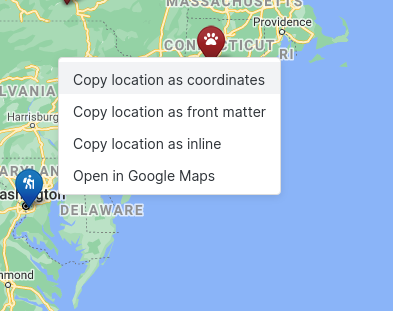
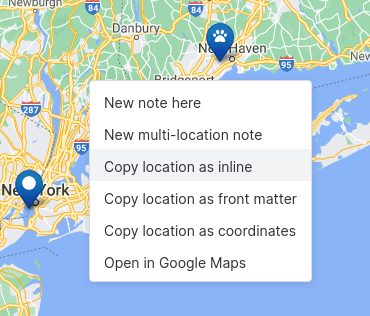
Various improvements

diff --git a/src/mapView.ts b/src/mapView.ts
@@ -53,9 +53,15 @@ export class MapView extends ItemView {
 		this.setState = async (state: MapState, result) => {
 			if (state) {
 				console.log(`Received setState:`, state);
-				// We give the given state priority by setting a high version
-				state.version = 100;
-				await this.updateMapToState(state);
+				if (!state.version) {
+					// We give the given state priority by setting a high version
+					state.version = this.plugin.highestVersionSeen + 1;
+				}
+				if (!state.mapCenter || !state.mapZoom) {
+					state.mapCenter = this.defaultState.mapCenter;
+					state.mapZoom = this.defaultState.mapZoom;
+				}
+				await this.updateMapToState(state, false);
 			}
 		}
 		this.getState = (): MapState => {
@@ -70,7 +76,7 @@ export class MapView extends ItemView {
 	getViewType() { return 'map'; }
 	getDisplayText() { return 'Interactive Map View'; }
 
-	onOpen() {
+	async onOpen() {
 		var that = this;
 		this.isOpen = true;
 		this.state = this.defaultState;
@@ -112,7 +118,7 @@ export class MapView extends ItemView {
 					tags: this.settings.defaultTags || consts.DEFAULT_TAGS,
 					version: this.state.version + 1
 				};
-				await this.updateMapToState(newState);
+				await this.updateMapToState(newState, false);
 			});
 		let fitButton = new ButtonComponent(controlsDiv);
 		fitButton
@@ -138,7 +144,7 @@ export class MapView extends ItemView {
 		});
 		this.contentEl.append(this.display.mapDiv);
 
-		this.createMap();
+		await this.createMap();
 
 		return super.onOpen();
 	}
@@ -157,8 +163,8 @@ export class MapView extends ItemView {
 		// LeafletJS compatability: disable tree-shaking for the full-screen module
 		var dummy = leafletFullscreen;
 		this.display.map = new leaflet.Map(this.display.mapDiv, {
-			center: new leaflet.LatLng(40.731253, -73.996139),
-			zoom: 13,
+			center: this.defaultState.mapCenter,
+			zoom: this.defaultState.mapZoom,
 			zoomControl: false,
 			worldCopyJump: true,
 			maxBoundsViscosity: 1.0});
@@ -239,12 +245,6 @@ export class MapView extends ItemView {
 			});
 			mapPopup.showAtPosition(event.originalEvent);
 		});
-		this.display.map.whenReady(async () => {
-			await that.updateMapToState(this.defaultState, !this.settings.defaultZoom);
-			if (this.onAfterOpen != null)
-				this.onAfterOpen(this.display.map, this.display.markers);
-		})
-
 	}
 
 	// Updates the map to the given state and then sets the state accordingly, but only if the given state version
@@ -257,7 +257,10 @@ export class MapView extends ItemView {
 			// of the method was called), cancel the update
 			return;
 		}
+		// --- BEYOND THIS POINT NOTHING SHOULD BE ASYNC ---
+		// Saying it again: do not use 'await' below this line!
 		this.state = state;
+		this.plugin.highestVersionSeen = Math.max(this.plugin.highestVersionSeen, this.state.version);
 		this.updateMapMarkers(newMarkers);
 		this.state.tags = this.state.tags || [];
 		this.display.tagsBox.setValue(this.state.tags.filter(tag => tag.length > 0).join(','));
@@ -299,28 +302,7 @@ export class MapView extends ItemView {
 				this.display.markers.delete(marker.id);
 			} else {
 				// New marker - create it
-				marker.mapMarker = leaflet.marker(marker.location, { icon: marker.icon || new leaflet.Icon.Default() })
-					.addTo(this.display.map)
-					.bindTooltip(marker.file.name);
-				marker.mapMarker.on('click', (event: leaflet.LeafletMouseEvent) => {
-					this.goToMarker(marker, event.originalEvent.ctrlKey, true);
-				});
-				marker.mapMarker.getElement().addEventListener('contextmenu', (ev: MouseEvent) => {
-					let mapPopup = new Menu(this.app);
-					mapPopup.setNoIcon();
-					mapPopup.addItem((item: MenuItem) => {
-						item.setTitle('Open note');
-						item.onClick(async ev => { this.goToMarker(marker, ev.ctrlKey, true); });
-					});
-					mapPopup.addItem((item: MenuItem) => {
-						item.setTitle('Open in Google Maps');
-						item.onClick(ev => {
-							open(`https://maps.google.com/?q=${marker.location.lat},${marker.location.lng}`);
-						});
-					});
-					mapPopup.showAtPosition(ev);
-					ev.stopPropagation();
-				})
+				marker.mapMarker = this.newLeafletMarker(marker);
 				newMarkersMap.set(marker.id, marker);
 			}
 		}
@@ -328,6 +310,40 @@ export class MapView extends ItemView {
 			value.mapMarker.removeFrom(this.display.map);
 		}
 		this.display.markers = newMarkersMap;
+	}
+
+	private newLeafletMarker(marker: FileMarker) : leaflet.Marker {
+		let newMarker = leaflet.marker(marker.location, { icon: marker.icon || new leaflet.Icon.Default() })
+			.addTo(this.display.map);
+		newMarker.on('click', (event: leaflet.LeafletMouseEvent) => {
+			this.goToMarker(marker, event.originalEvent.ctrlKey, true);
+		});
+		newMarker.on('mouseover', (event: leaflet.LeafletMouseEvent) => {
+			let content = `<p class="map-view-marker-name">${marker.file.name}</p>`;
+			if (marker.snippet)
+				content += `<p class="map-view-marker-snippet">${marker.snippet}</p>`;
+			newMarker.bindPopup(content, {closeButton: false}).openPopup();
+		});
+		newMarker.on('mouseout', (event: leaflet.LeafletMouseEvent) => {
+			newMarker.closePopup();
+		});
+		newMarker.getElement().addEventListener('contextmenu', (ev: MouseEvent) => {
+			let mapPopup = new Menu(this.app);
+			mapPopup.setNoIcon();
+			mapPopup.addItem((item: MenuItem) => {
+				item.setTitle('Open note');
+				item.onClick(async ev => { this.goToMarker(marker, ev.ctrlKey, true); });
+			});
+			mapPopup.addItem((item: MenuItem) => {
+				item.setTitle('Open in Google Maps');
+				item.onClick(ev => {
+					open(`https://maps.google.com/?q=${marker.location.lat},${marker.location.lng}`);
+				});
+			});
+			mapPopup.showAtPosition(ev);
+			ev.stopPropagation();
+		})
+		return newMarker;
 	}
 
 	async autoFitMapToMarkers() {

diff --git a/src/markers.ts b/src/markers.ts
@@ -1,4 +1,5 @@
 import { App, TFile } from 'obsidian';
+import wildcard from 'wildcard';
 import * as leaflet from 'leaflet';
 import 'leaflet-extra-markers';
 import 'leaflet-extra-markers/dist/css/leaflet.extra-markers.min.css';
@@ -18,6 +19,7 @@ export class FileMarker {
 	icon?: leaflet.Icon<leaflet.BaseIconOptions>;
 	mapMarker?: leaflet.Marker;
 	id: MarkerId;
+	snippet?: string;
 
 	constructor(file: TFile, location: leaflet.LatLng) {
 		this.file = file;
@@ -75,6 +77,11 @@ export async function buildMarkers(files: TFile[], settings: PluginSettings, app
 	return markers;
 }
 
+function checkTagPatternMatch(tagPattern: string, fileTags: string[]) {
+	let match = wildcard(tagPattern, fileTags);
+	return match && match.length > 0;
+}
+
 function getIconForMarker(marker: FileMarker, settings: PluginSettings, app: App) : leaflet.Icon {
 	let result = settings.markerIcons.default;
 	const fileCache = app.metadataCache.getFileCache(marker.file);
@@ -82,7 +89,7 @@ function getIconForMarker(marker: FileMarker, settings: PluginSettings, app: App
 		const fileTags = fileCache.tags.map(tagCache => tagCache.tag);
 		// We iterate over the rules and apply them one by one, so later rules override earlier ones
 		for (const tag in settings.markerIcons) {
-			if (fileTags.indexOf(tag) > -1) {
+			if (checkTagPatternMatch(tag, fileTags)) {
 				result = Object.assign({}, result, settings.markerIcons[tag]);
 			}
 		}
@@ -129,6 +136,7 @@ async function getMarkersFromFileContent(file: TFile, settings: PluginSettings, 
 			const marker = new FileMarker(file, location);
 			marker.fileLocation = match.index;
 			marker.icon = getIconForMarker(marker, settings, app);
+			marker.snippet = await makeTextSnippet(file, content, marker.fileLocation, settings);
 			markers.push(marker);
 		}
 		catch (e) {
@@ -136,6 +144,45 @@ async function getMarkersFromFileContent(file: TFile, settings: PluginSettings, 
 		}
 	}
 	return markers;
+}
+
+async function makeTextSnippet(file: TFile, fileContent: string, fileLocation: number, settings: PluginSettings) {
+	let snippet = '';
+	if (settings.snippetLines && settings.snippetLines > 0) {
+		// We subtract 1 because the central (location) line will always be displayed
+		let linesAbove = Math.round((settings.snippetLines - 1) / 2);
+		let linesBelow = settings.snippetLines - 1 - linesAbove;
+		// Start from the beginning of the line on which the location was found, then go back
+		let snippetStart = fileContent.lastIndexOf('\n', fileLocation);
+		while (linesAbove > 0 && snippetStart > -1) {
+			const prevLine = fileContent.lastIndexOf('\n', snippetStart - 1);
+			const line = fileContent.substring(snippetStart, prevLine);
+			// If the new line above contains another location, don't include it and stop
+			if (!matchInlineLocation(line).next().done)
+				break;
+			snippetStart = prevLine;
+			linesAbove -= 1;
+		}
+		// Either if we reached the beginning of the file (-1) or if we stopped due to a newline, we want a step forward
+		snippetStart += 1;
+		// Always include the line with the location
+		let snippetEnd = fileContent.indexOf('\n', fileLocation);
+		// Now continue forward
+		while (linesBelow > 0 && snippetEnd > -1) {
+			const nextLine = fileContent.indexOf('\n', snippetEnd + 1);
+			const line = fileContent.substring(snippetEnd, nextLine > -1 ? nextLine : fileContent.length);
+			// If the new line below contains another location, don't include it and stop
+			if (!matchInlineLocation(line).next().done)
+				break;
+			snippetEnd = nextLine;
+			linesBelow -= 1;
+		}
+		if (snippetEnd === -1)
+			snippetEnd = fileContent.length;
+		snippet = fileContent.substring(snippetStart, snippetEnd);
+		snippet = snippet.replace(/\`location:.*\`/g, '<span class="map-view-location">`location:...`</span>');
+	}
+	return snippet;
 }
 
 export function getFrontMatterLocation(file: TFile, app: App) : leaflet.LatLng {

diff --git a/src/main.ts b/src/main.ts
@@ -1,4 +1,4 @@
-import { addIcon, App, Editor, FileView, MarkdownView, MenuItem, Menu, TFile, Plugin, WorkspaceLeaf, PluginSettingTab, Setting, TAbstractFile } from 'obsidian';
+import { addIcon, App, Editor, FileView, MarkdownView, MenuItem, Menu, TFile, Plugin, WorkspaceLeaf, PluginSettingTab, Setting, TAbstractFile, SuggestModal } from 'obsidian';
 import * as consts from 'src/consts';
 import * as leaflet from 'leaflet';
 
@@ -8,6 +8,7 @@ import { getFrontMatterLocation, matchInlineLocation, verifyLocation } from 'src
 
 export default class MapViewPlugin extends Plugin {
 	settings: PluginSettings;
+	public highestVersionSeen: number = 0;
 
 	async onload() {
 		addIcon('globe', consts.RIBBON_ICON);
@@ -78,6 +79,7 @@ export default class MapViewPlugin extends Plugin {
 		await this.app.workspace.getLeaf().setViewState({
 			type: consts.MAP_VIEW_NAME,
 			state: {
+				version: this.highestVersionSeen + 1,	// Make sure this overrides any existing state
 				mapCenter: location,
 				mapZoom: this.settings.zoomOnGoFromNote
 			} as any});
@@ -132,7 +134,7 @@ class SettingsTab extends PluginSettingTab {
 
 		new Setting(containerEl)
 			.setName('Map follows search results')
-			.setDesc('Auto focus the map to fit search results.')
+			.setDesc('Auto zoom & pan the map to fit search results.')
 			.addToggle(component => {component
 				.setValue(this.plugin.settings.autoZoom)
 					.onChange(async (value) => {
@@ -198,7 +200,18 @@ class SettingsTab extends PluginSettingTab {
 					this.plugin.saveSettings();
 				})
 			});
-
+		new Setting(containerEl)
+			.setName('Note lines to show on map marker popup')
+			.setDesc('Number of total lines to show in the snippet displayed for inline location notes.')
+			.addSlider(slider => { slider
+				.setLimits(0, 12, 1)
+				.setDynamicTooltip()
+				.setValue(this.plugin.settings.snippetLines || DEFAULT_SETTINGS.snippetLines)
+				.onChange(async (value: number) => {
+					this.plugin.settings.snippetLines = value;
+					this.plugin.saveSettings();
+				})
+			});
 		new Setting(containerEl)
 			.setName('Default zoom for "show on map" action')
 			.setDesc('When jumping to the map from a note, what should be the display zoom?')

diff --git a/src/settings.ts b/src/settings.ts
@@ -16,6 +16,7 @@ export type PluginSettings = {
 	newNoteNameFormat?: string;
 	newNotePath?: string;
 	newNoteTemplate?: string;
+	snippetLines?: number;
 }
 
 export const DEFAULT_SETTINGS: PluginSettings = {
@@ -30,5 +31,6 @@ export const DEFAULT_SETTINGS: PluginSettings = {
 	tilesUrl: consts.TILES_URL_OPENSTREETMAP,
 	autoZoom: true,
 	markerClickBehavior: 'samePane',
-	newNoteNameFormat: 'Location added on {{date:YYYY-MM-DD}}T{{date:HH-mm}}'
+	newNoteNameFormat: 'Location added on {{date:YYYY-MM-DD}}T{{date:HH-mm}}',
+	snippetLines: 3
 };

diff --git a/rollup.config.js b/rollup.config.js
@@ -32,7 +32,8 @@ export default {
 		postcss({ extensions: ['.css'], plugins: [postcss_url({url: 'inline'})] }),
 		copy({
 			targets: [
-				{ src: './manifest.json', dest: 'dist' }
+				{ src: './manifest.json', dest: 'dist' },
+				{ src: './styles.css', dest: 'dist' }
 			]
 		})
 	]

diff --git a/styles.css b/styles.css
@@ -1,0 +1,13 @@
+.map-view-marker-name {
+	font-weight: bold;
+}
+ 
+.map-view-marker-snippet {
+	white-space: pre-line;
+	overflow-wrap: break-word;
+}
+
+.map-view-location {
+	font-weight: bold;
+	text-decoration: underline;
+}

diff --git a/src/types.d.ts b/src/types.d.ts
@@ -1,0 +1,1 @@
+declare module 'wildcard';

diff --git a/README.md b/README.md
@@ -139,6 +139,8 @@ Then, a note that has both the `#trip` and `#trip-water` tags will have a `fa-hi
 **Consider copying the configuration to an external editor and editing it there.**
 The configuration dialog ignores an invalid JSON object, so if you close it in a state that has a syntax error, your changes will be lost.
 
+Tag rules also support wildcards, e.g. a rule in the form of `"#food*": {...}` will match notes with the tag `#food`, `#food/pizza`, `#food/vegan`, `#food-to-try` etc.
+
 ### Map Sources
 
 By default, Map View uses the [standard tile layer of OpenStreetMap](https://wiki.openstreetmap.org/wiki/Standard_tile_layer).
@@ -173,6 +175,12 @@ There are so many things that I want it to do, and so little time...
 - A side bar with note summaries linked to the map view.
 
 ## Changelog
+
+### 0.0.9
+
+- Marker hovers are now much nicer, and in the case of inline notes they also show the snippet around the location (configurable).
+- Smoother view state management including a relevant [bug fix](https://github.com/esm7/obsidian-map-view/issues/14).
+- Tag rules now supports wildcards in the tag name (as asked [here](https://github.com/esm7/obsidian-map-view/issues/10)).
 
 ### 0.0.8
 
